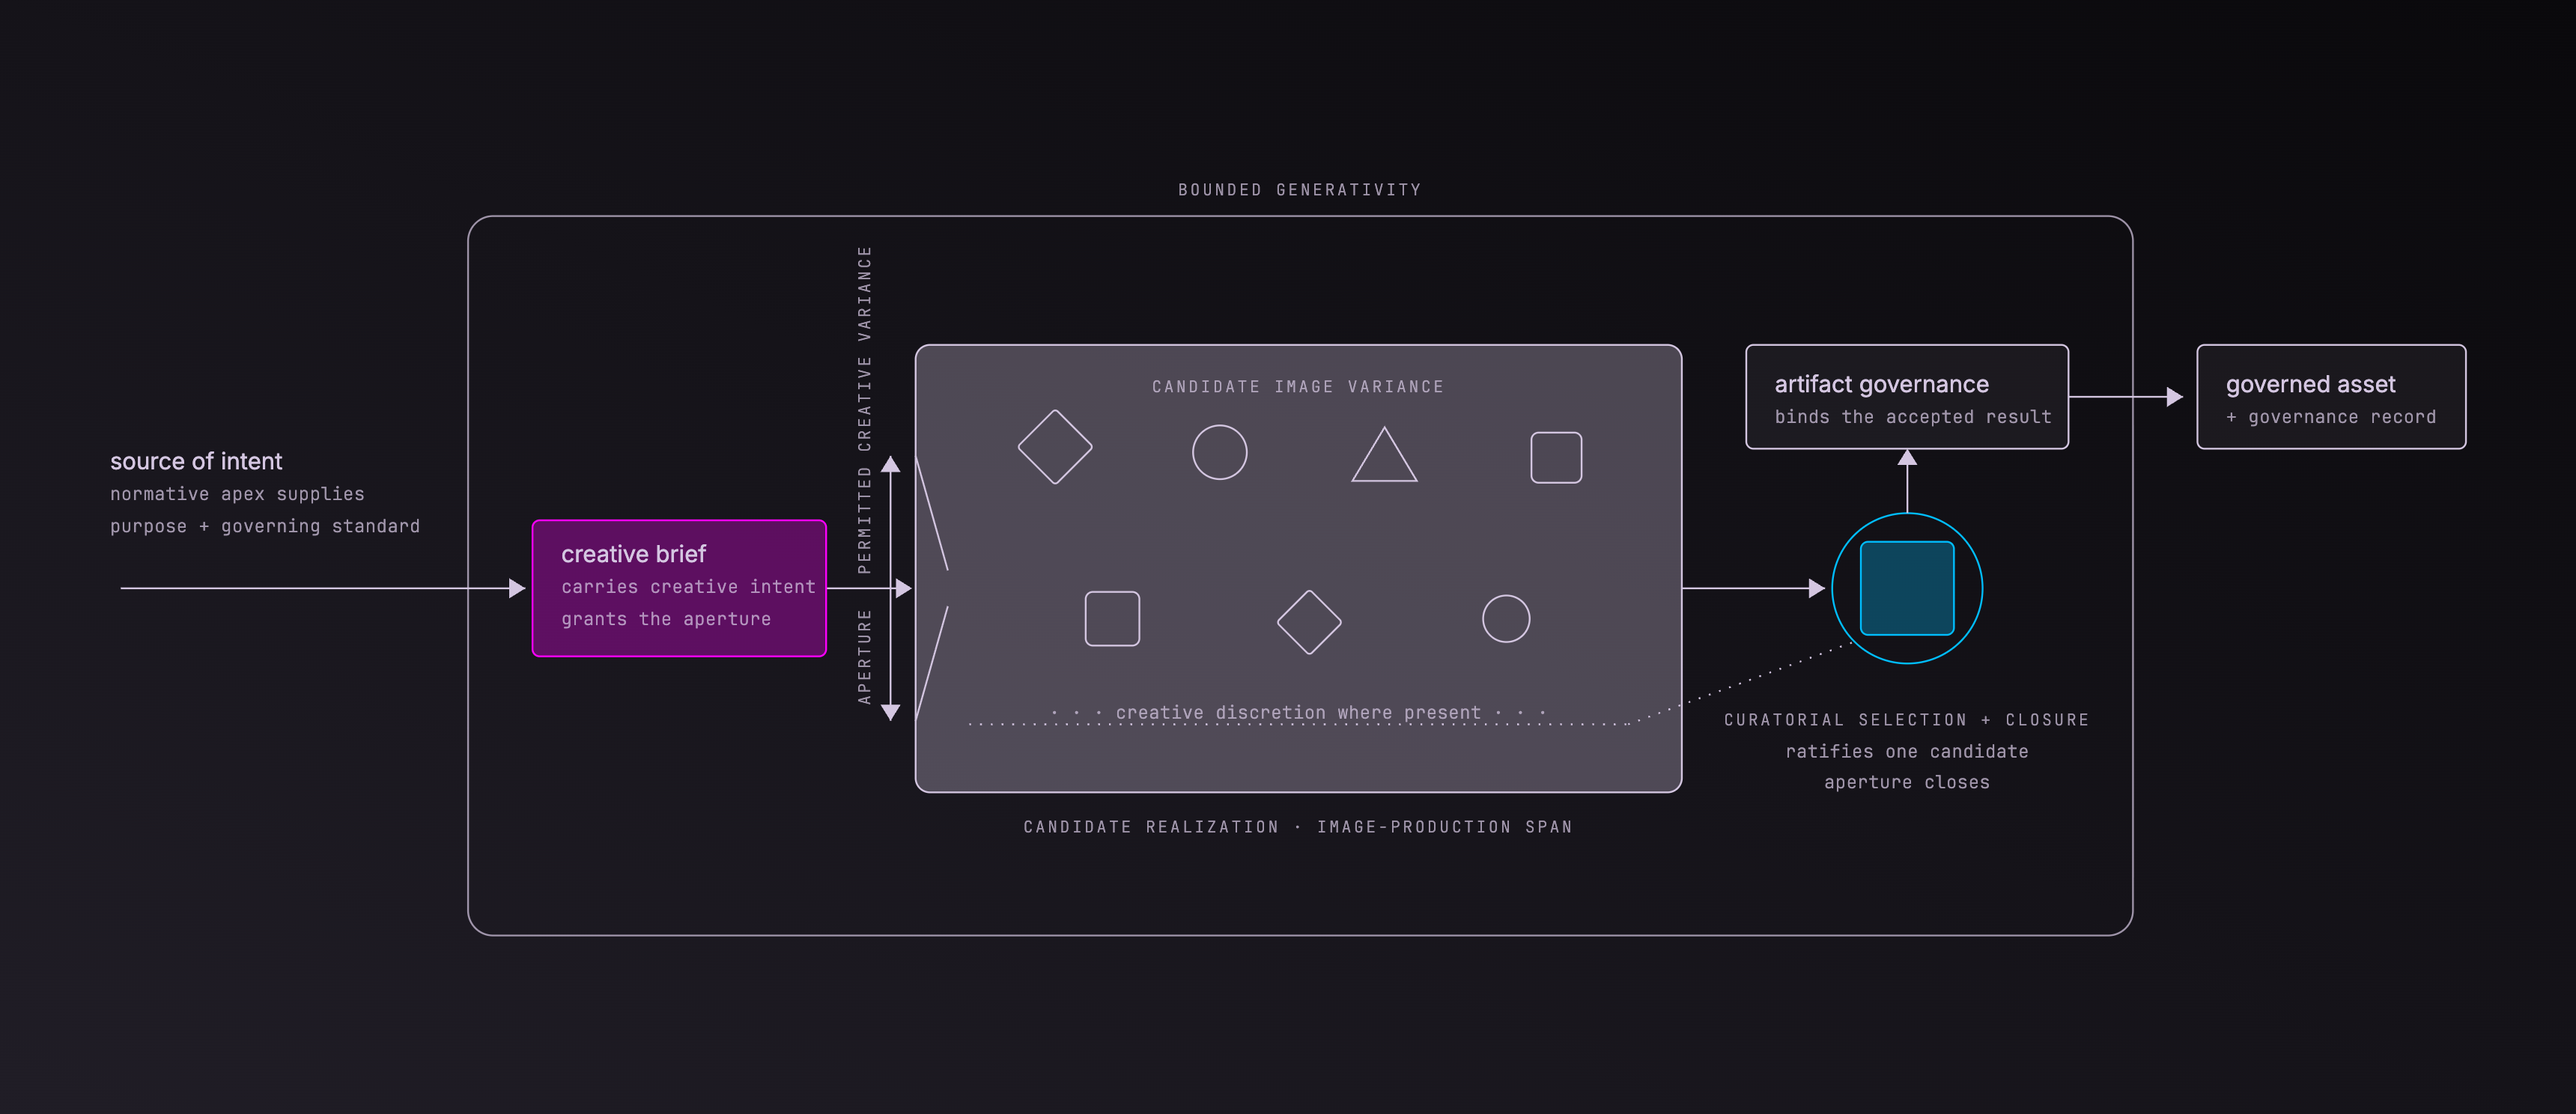
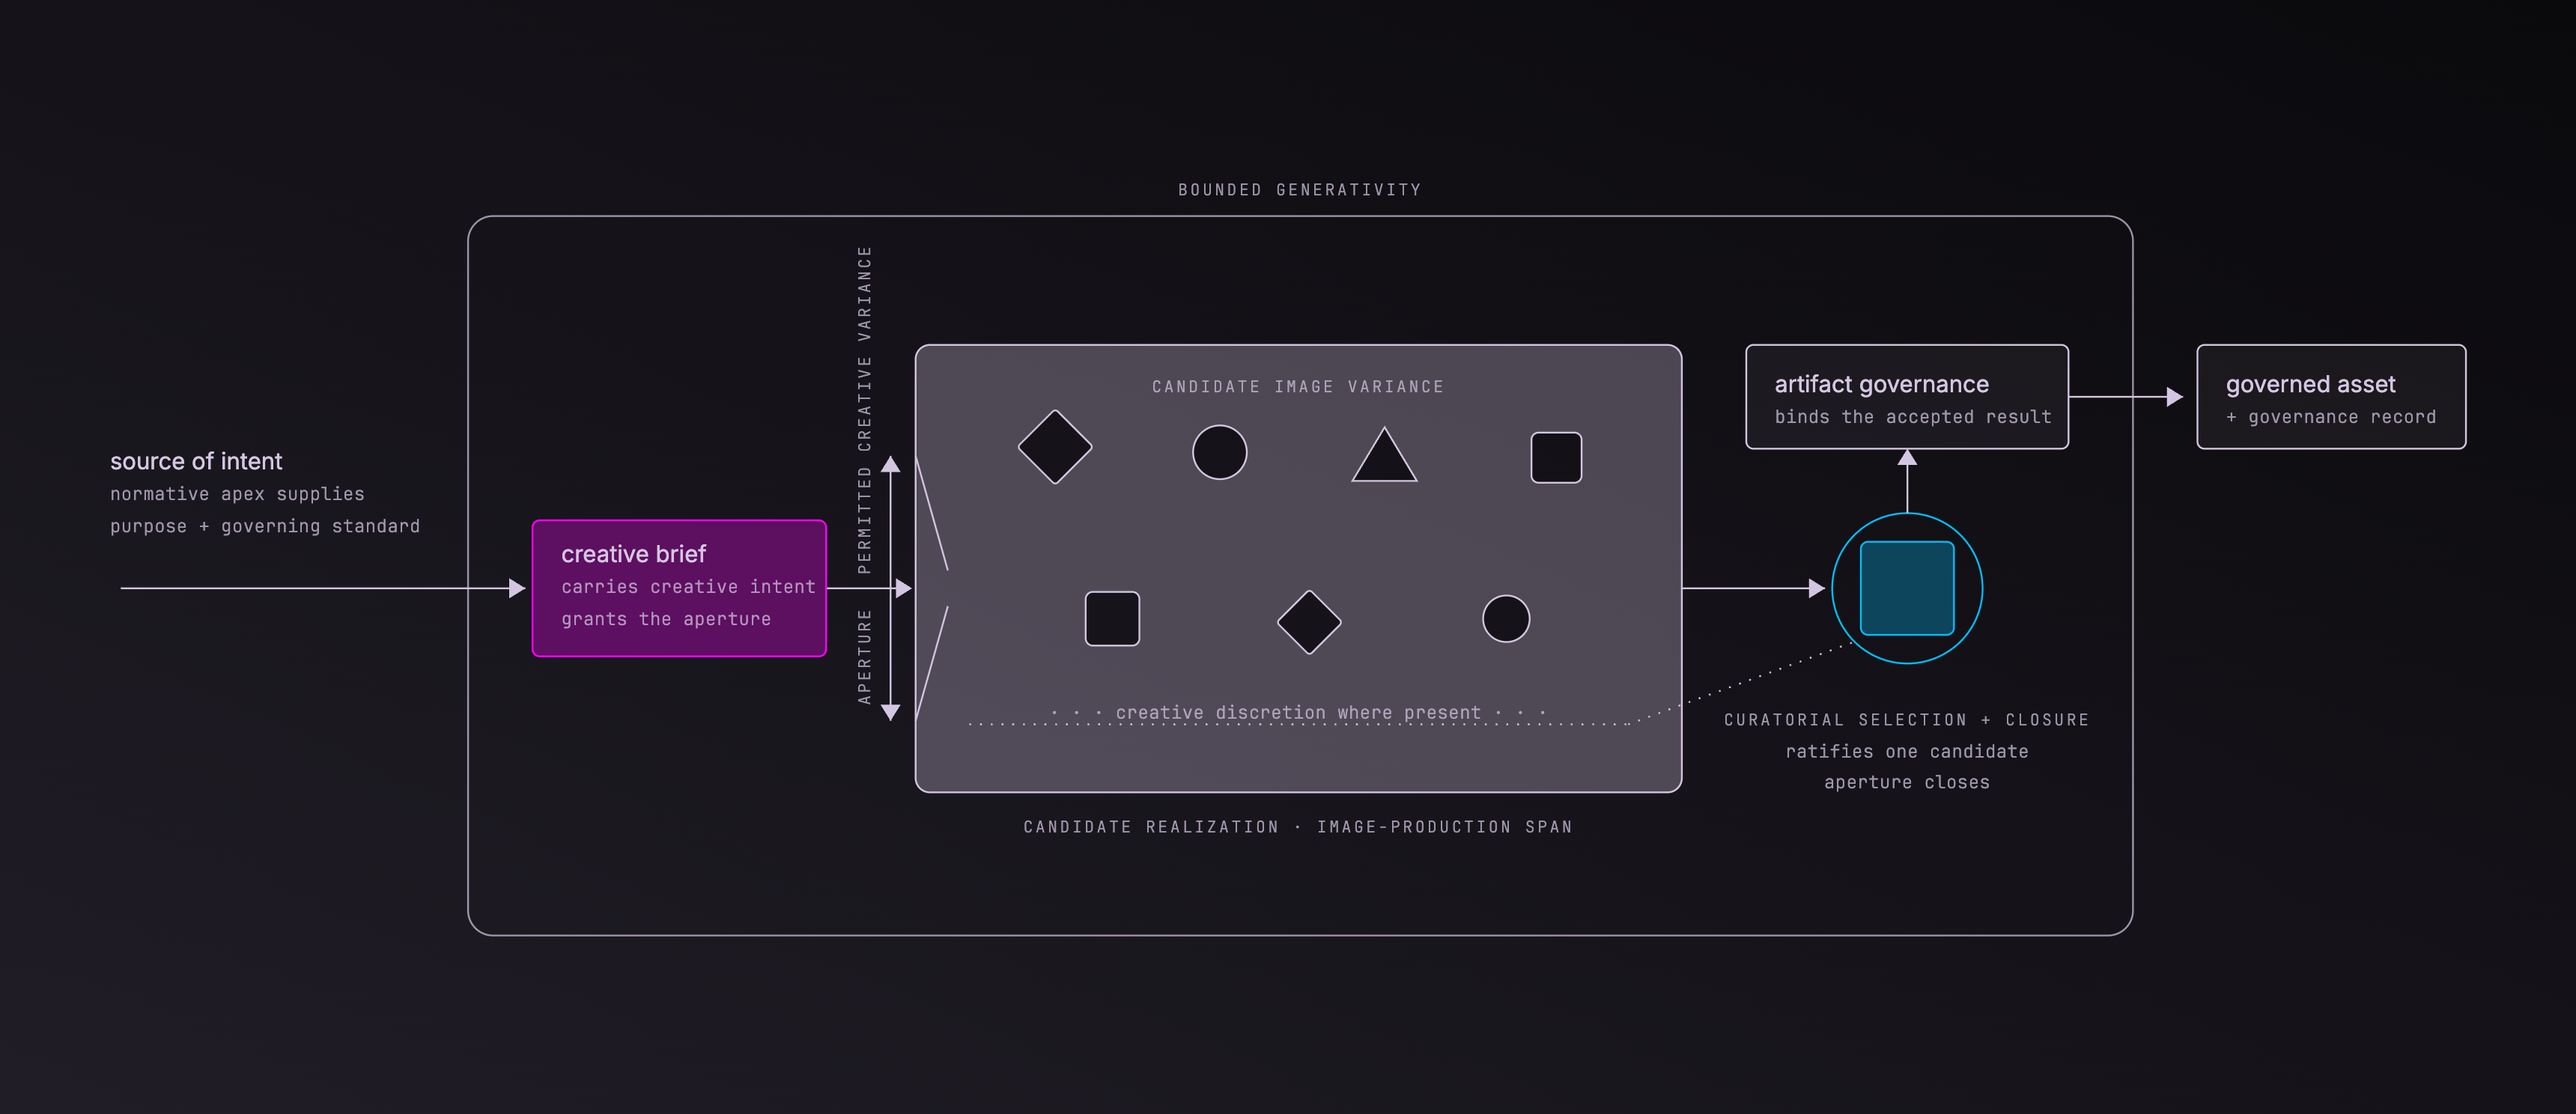
fix(diagrams): re-vendor export-png.js (defs-carry fix · DS #72) + render-v2 — regenerate bounded-generativity rasters (#378)
The vendored static PNG exporter dropped the live SVG's direct <defs>, so the executive-chamber negative-cutout mask exported as a dangling reference and the candidate marks rasterized filled instead of cut-through (live HTML correct). Re-vendored docs/diagrams/export-png.js byte-identical from DS @ 5674b46 (md5 a91d9548); the separate interactive-spine exporter is untouched. Figure source-v1 held; render stamp v1->v2 (figure header + HTML comment + visible stamp + _dsa-tokens/MANIFEST entry). All four rasters regenerated; verified: diagram-dark glyph center resolves to the page field (rgb 20,18,24) vs filled wash (rgb 78,72,85); page-dark visually confirmed cutouts + filled wash + neutral outlines, Three Functions legend load-bearing + AP-specific geometry + landscape composition unchanged. Doctrine embed (versionless filenames) unchanged.

diff --git a/docs/diagrams/export-png.js b/docs/diagrams/export-png.js
@@ -14,6 +14,12 @@
    caveat chrome with inline presentation attributes — no class rules, no var()
    left to resolve. Mirrors patterns/diagram-interactive-spine/export-png.js.
 
+   Direct <defs> are carried into the export (2026-07-13): the content clone copies
+   the live SVG's direct <defs> children (masks, clipPaths, gradients, markers) so
+   every exported url(#id) reference resolves. Without this, a referenced-but-absent
+   definition renders unmasked — e.g. a negative-cutout wash fills solid in the raster
+   while the live browser render stays correct.
+
    Chrome is laid out at PAGE SCALE (2026-06-11). The diagram content is scaled
    up to fill the 3840×2880 page, so the header / caveat / legend must be drawn
    at matching size — earlier versions drew them at on-screen pixel sizes, which
@@ -432,6 +438,13 @@
        (Pan/zoom lives on the #stage div, not the SVG content, so the engine
        coordinates need no un-transform.) */
     var content = document.createElementNS(NS, 'g');
+    // Carry the live SVG's direct <defs> (masks, clipPaths, gradients, markers) into the
+    // export so every url(#id) reference resolves in the raster. SVG-as-image is self-
+    // contained: a reference whose definition was left behind renders unmasked (a
+    // negative-cutout wash then fills solid). Cloned verbatim — defs use presentation
+    // attributes, not class rules, so no style inlining is needed.
+    var liveDefs = svg.querySelectorAll(':scope > defs');
+    for (var di = 0; di < liveDefs.length; di++) { content.appendChild(liveDefs[di].cloneNode(true)); }
     var liveGroups = svg.querySelectorAll(':scope > g'); // edges layer, nodes layer
     for (var i = 0; i < liveGroups.length; i++) {
       var clone = liveGroups[i].cloneNode(true);
@@ -717,6 +730,10 @@
     var padY = ((viewportH - h * fitScale) / 2) * RASTER;
 
     var content = document.createElementNS(NS, 'g');
+    // Carry the live SVG's direct <defs> (masks, clipPaths, gradients, markers) into the
+    // export so every url(#id) reference resolves in the raster (see buildSvg).
+    var liveDefs = svg.querySelectorAll(':scope > defs');
+    for (var di = 0; di < liveDefs.length; di++) { content.appendChild(liveDefs[di].cloneNode(true)); }
     var liveGroups = svg.querySelectorAll(':scope > g');
     for (var i = 0; i < liveGroups.length; i++) {
       var clone = liveGroups[i].cloneNode(true);

diff --git a/docs/diagrams/asset-pipeline-ASK_bounded-generativity.html b/docs/diagrams/asset-pipeline-ASK_bounded-generativity.html
@@ -12,7 +12,7 @@
 <!-- ASK Three Functions — opt-in semantic function-color primitive, vendored from design-system-ASK. See _dsa-tokens/MANIFEST.md -->
 <link rel="stylesheet" href="./_dsa-tokens/three-functions.css">
 <style>
-  /* ===== Three Functions consumption (source-v1 // render-v1): role stroke + 30% fill; executive = the chamber, variance = negative cutouts ===== */
+  /* ===== Three Functions consumption (source-v1 // render-v2): role stroke + 30% fill; executive = the chamber, variance = negative cutouts ===== */
   .node-box.fn-leg  { stroke: var(--function-legislative); fill: color-mix(in srgb, var(--function-legislative) 30%, transparent); }
   .node-box.fn-jud  { stroke: var(--function-judicial);    fill: color-mix(in srgb, var(--function-judicial) 30%, transparent); }
   .edge.fn-jud-ring { stroke: var(--function-judicial); }
@@ -37,7 +37,7 @@
     </div>
     <div class="spacer"></div>
     <div class="stamp">
-      <div><span class="k">source-v1</span> // <span class="k">render-v1</span></div>
+      <div><span class="k">source-v1</span> // <span class="k">render-v2</span></div>
       <div>2026-07-13</div>
     </div>
   </div>

diff --git a/docs/diagrams/asset-pipeline-ASK_bounded-generativity.figure.js b/docs/diagrams/asset-pipeline-ASK_bounded-generativity.figure.js
@@ -1,4 +1,4 @@
-/* asset-pipeline-ASK_bounded-generativity.figure.js — AP instance (source-v1 // render-v1, ASK 2026-07-13)
+/* asset-pipeline-ASK_bounded-generativity.figure.js — AP instance (source-v1 // render-v2, ASK 2026-07-13)
    Derived from the method-ASK bounded-generativity topology @ 2e5d8c4. Per ASK apex ruling (2026-07-13),
    AP copy AND geometry are adapted for the commercial image-production surface under ASK authorization — the
    shared invariant is the TOPOLOGY, the semantic-role mapping (legislative/executive/judicial), the Three

diff --git a/docs/diagrams/_dsa-tokens/MANIFEST.md b/docs/diagrams/_dsa-tokens/MANIFEST.md
@@ -12,6 +12,7 @@ renders entirely from these local files.
 **Re-synced:** 2026-06-26 (later, DS #56) — **comment-only** re-vendor of `colors_and_type.css` (header "five-color core" → "a core identity set"; block label "Core 5 — backgrounds + text" → "Core set — backgrounds, wordmark, dark-mode text") and `spectral-state.css` ("each mapped to a neon hue" → "eight roles: seven sparse neon state signals plus a neutral role that resolves to the theme foreground"; `--state-neutral` = `var(--fg-1)`) at `1231d03`. **No token value, role name, selector, or theme behavior change** — verified non-comment content byte-identical; render-neutral, byte-verify only (no raster). `render-vN` stamps held.
 **Added:** 2026-07-10 (DS #62, `44c6074`) — `fonts-embedded.js`, the **no-fetch embedded-font carrier** that lets a `file://` page export correct PNGs offline (base64 fonts inlined; the exporter prefers it, falls back to the http woff2 fetch, and fails closed if neither fully embeds). Generated deterministically from the DS fonts by `tools/gen-embedded-fonts.js`; the fonts themselves are unchanged (`b3b32a5`). Loaded before `export-png.js` in every diagram HTML.
 **Added:** 2026-07-13 (DS #67, `8fb82b7`) — `three-functions.css`, the design-system-ASK **Three Functions** semantic function-color primitive (`--function-legislative` / `-executive` / `-judicial`), vendored **byte-identical**. Consumed only by the bounded-generativity figure (legislative = the creative brief, executive = the realization chamber, judicial = selection + closure), which also drives the shared `export-png.js` bump to `5512b5d` (DS #70) for semantic-legend fidelity. Load *after* `colors_and_type.css` — the `--function-*` tokens reference the base palette (`--ask-emphasis-magenta/-cyan`, `--ask-white`, `--ask-lavender-ask`) defined there. Not loaded by the static architecture diagrams.
+**Re-vendor:** 2026-07-13 (DS #72, `5674b46`) — `export-png.js` **direct-`<defs>` carry fix**, re-vendored **byte-identical** (md5 `a91d9548`). The shared static exporter cloned only the live SVG's `<g>` content layers into the raster, never its direct `<defs>` — so this figure's executive-chamber `userSpaceOnUse` negative-cutout mask exported as a **dangling `url(#…)` reference** and the candidate marks rasterized **filled** instead of cut-through (the live render was correct). **NOT render-neutral** — all four rasters regenerated so the cutouts render as holes; the figure stamp bumps **`render-v1 → render-v2`** (source held `source-v1`, geometry unchanged). `export-png.js` is not a token-mirror file; its pin is tracked in the operator consumer-ledger.
 
 Per-file pins (sha256 over file contents):
 
